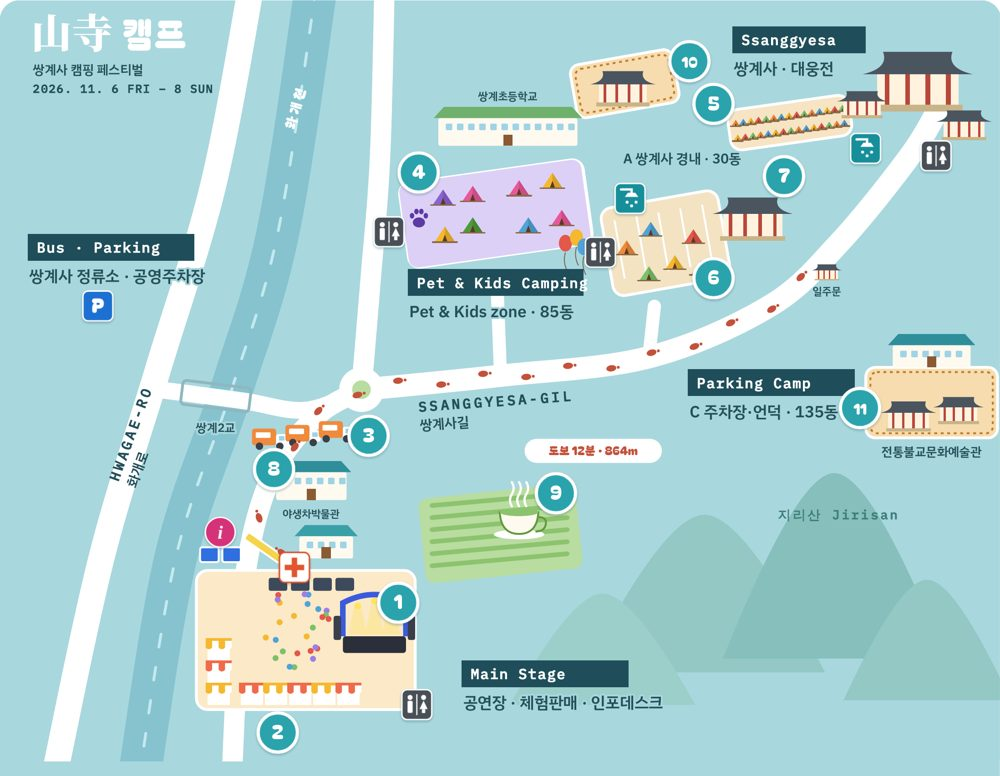
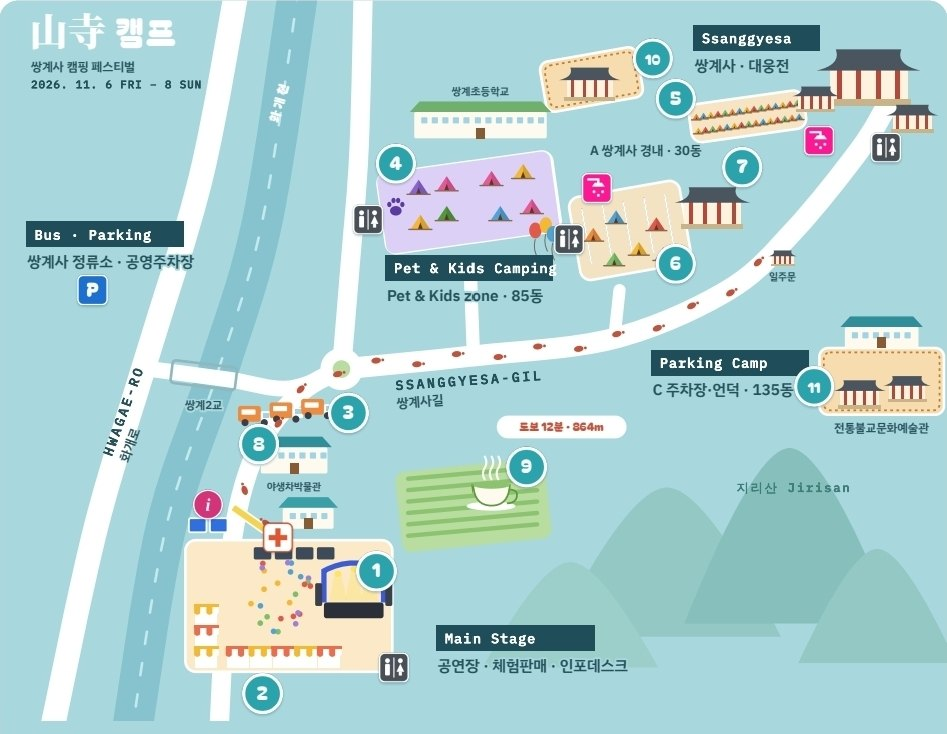
more: 행사장 약도를 최신 안내도(샤워실 분홍 아이콘 버전)로 교체
Claude-Session: https://claude.ai/code/session_01RWNKczAFUoPqQwLBG1R75N

diff --git a/src/components/more/EventMap.tsx b/src/components/more/EventMap.tsx
@@ -104,7 +104,7 @@ export default function EventMap() {
   return (
     <div>
       <button type="button" onClick={() => setOpen(true)} className="group relative block w-full overflow-hidden rounded-tile border border-line bg-[#2E6B2A] active:scale-[0.99] transition">
-        <img src={MAP} srcSet={`${MAP} 1000w, ${MAP_HI} 2200w`} sizes="(max-width: 430px) 100vw, 430px" alt="2026 산사캠프 행사장 약도" width={1000} height={776} loading="lazy" decoding="async" className="block h-auto w-full" />
+        <img src={MAP} srcSet={`${MAP} 947w, ${MAP_HI} 1894w`} sizes="(max-width: 430px) 100vw, 430px" alt="2026 산사캠프 행사장 약도" width={947} height={734} loading="lazy" decoding="async" className="block h-auto w-full" />
       </button>
       <p className="mt-2 text-center text-[12px] font-bold text-deep">약도를 누르면 크게 볼 수 있어요 · 두 손가락으로 확대</p>
 
